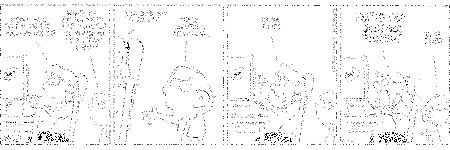
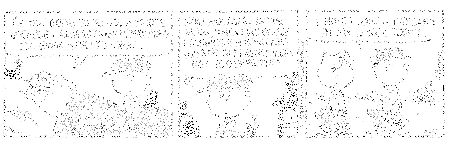
increased input noise, decreased discriminator updates

diff --git a/cartoons/cartoon_generator.py b/cartoons/cartoon_generator.py
@@ -166,7 +166,7 @@ class DataProvider(Sequence):
 
     # 1 is white, 0 is black, remember
     def convert_to_sample(self, img):
-        p_black = .3
+        p_black = .2
         sample = np.random.choice((0.0, 1.0), size=img.shape, p=(p_black, 1.0-p_black)) # p is probability of each option
         # element-wise max
         return np.maximum(sample, img)
@@ -352,7 +352,7 @@ data_train = DataProvider(metadata_train)
 data_test = DataProvider(metadata_test)
 epochs = 60
 steps_per_epoch = num_data//data_train.batch_size
-discriminator_updates = 3
+discriminator_updates = 1
 report_epoch_progress(None, None)
 
 gan.summary()
